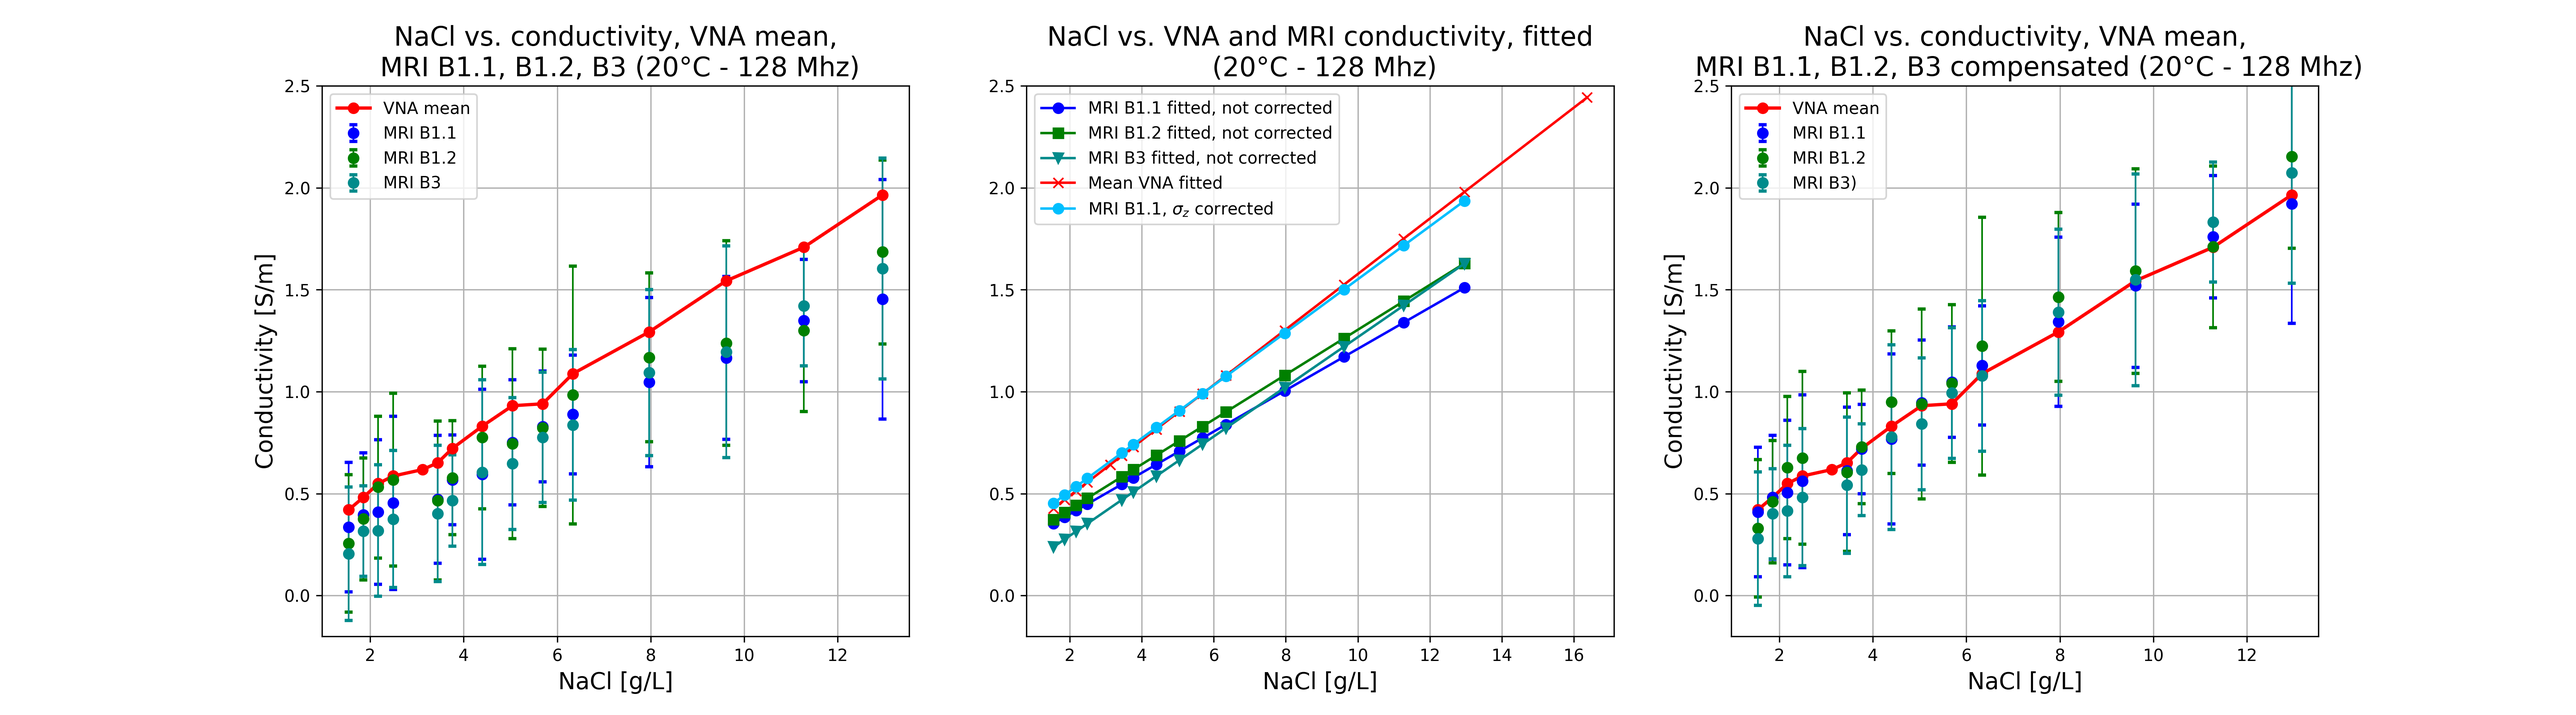
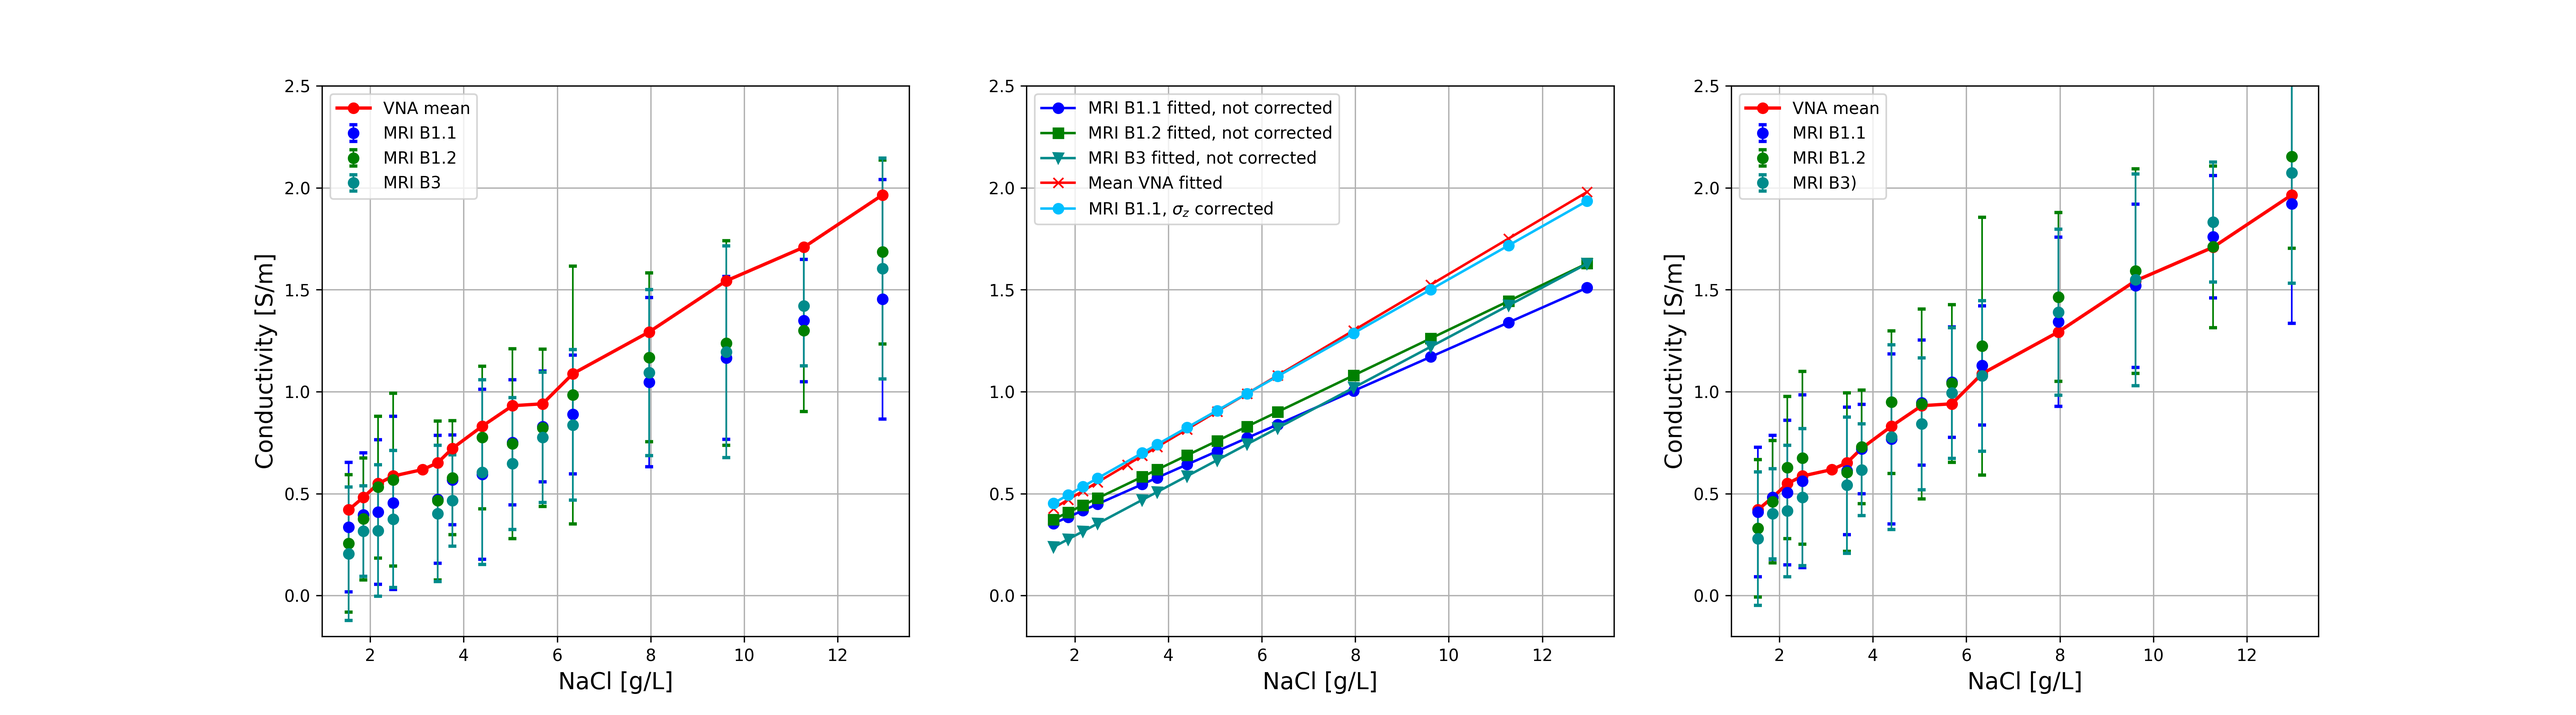
Figure update

diff --git a/plot_excel_data.py b/plot_excel_data.py
@@ -268,7 +268,7 @@ ax1.plot(salts_R1[:-1], mean_cond[:-1], 'o-',markersize=6, linewidth=2, label='V
 fig3.subplots_adjust(left=0.1, bottom=0.1, right=0.9, top=0.9, wspace=0.2, hspace=0.2)
 ax1.set_xlabel('NaCl [g/L]', fontsize=14)
 ax1.set_ylabel('Conductivity [S/m]', fontsize=14)
-ax1.set_title('NaCl vs. conductivity, VNA mean,\n MRI B1.1, B1.2, B3 (20°C - 128 Mhz)', fontsize=16)
+# ax1.set_title('NaCl vs. conductivity, VNA mean,\n MRI B1.1, B1.2, B3 (20°C - 128 Mhz)', fontsize=16)
 ax1.grid()
 ax1.legend()
 ax1.set_ylim(-0.2,2.5)
@@ -278,14 +278,14 @@ ax2 = plt.subplot(132)
 ax2.plot(salts_MRI, trend_MRI1_1(salts_MRI), label='MRI B1.1 fitted, not corrected',marker='o', color='blue')
 ax2.plot(salts_MRI, trend_MRI1_2(salts_MRI), label='MRI B1.2 fitted, not corrected',marker='s', color='green')
 ax2.plot(salts_MRI, trend_MRI2(salts_MRI),   label='MRI B3 fitted, not corrected'  ,marker='v', color='darkcyan')
-ax2.plot(salts_R1, trend_VNA_mean(salts_R1), label='Mean VNA fitted'   ,marker='x', color='red')
+ax2.plot(salts_R1[:-1], trend_VNA_mean(salts_R1)[:-1], label='Mean VNA fitted'   ,marker='x', color='red')
 # ax2.plot(salts_R1, trend_VNA_mean_85(salts_R1), label='Mean VNA sigma comp'   ,marker='x', color='tomato')
 ax2.plot(salts_MRI, trend_MRI1_1_comp(salts_MRI), label='MRI B1.1, $σ_{z}$ corrected'   ,marker='o', color='deepskyblue')
 ax2.legend()
 ax2.grid()
 ax2.set_ylim(-0.2,2.5)
 ax2.set_xlabel('NaCl [g/L]', fontsize=14)
-ax2.set_title('NaCl vs. VNA and MRI conductivity, fitted\n (20°C - 128 Mhz)', fontsize=16)
+# ax2.set_title('NaCl vs. VNA and MRI conductivity, fitted\n (20°C - 128 Mhz)', fontsize=16)
 
 corr1_1 = [x * -0.0346 - 0.0208 for x in salts_MRI]
 print(corr1_1)
@@ -303,7 +303,7 @@ ax3.plot(salts_R1[:-1], mean_cond[:-1], 'o-',markersize=6, linewidth=2, label='V
 fig3.subplots_adjust(left=0.1, bottom=0.1, right=0.9, top=0.9, wspace=0.2, hspace=0.2)
 ax3.set_xlabel('NaCl [g/L]', fontsize=14)
 ax3.set_ylabel('Conductivity [S/m]', fontsize=14)
-ax3.set_title('NaCl vs. conductivity, VNA mean,\n MRI B1.1, B1.2, B3 compensated (20°C - 128 Mhz)', fontsize=16)
+# ax3.set_title('NaCl vs. conductivity, VNA mean,\n MRI B1.1, B1.2, B3 compensated (20°C - 128 Mhz)', fontsize=16)
 ax3.grid()
 ax3.legend()
 ax3.set_ylim(-0.2,2.5)
